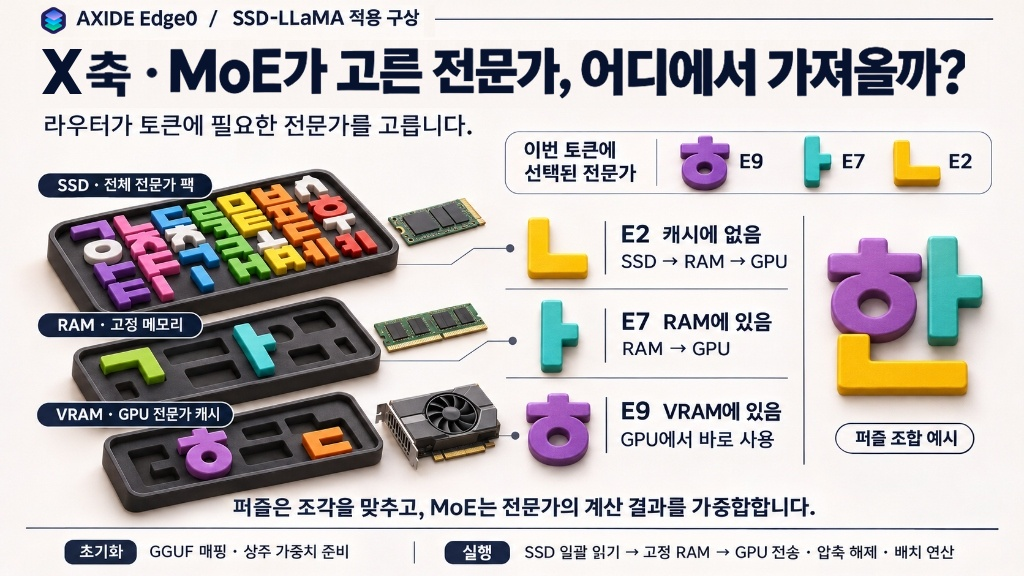
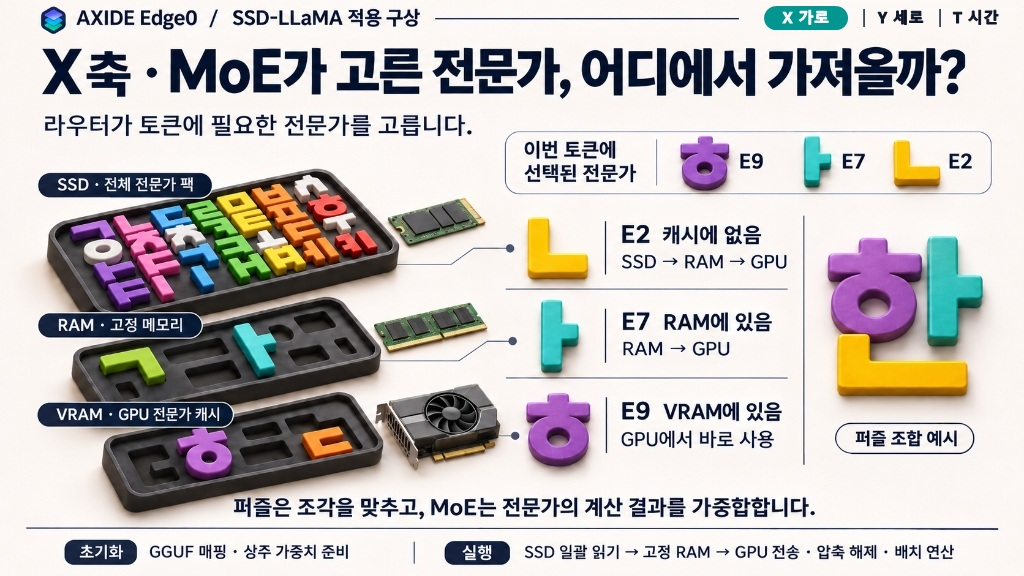
feat(story): unify X 가로 | Y 세로 | T 시간 headers, green X pill, and 5-step Hangul puzzle interlocking assembly

diff --git a/story.html b/story.html
@@ -311,18 +311,18 @@
                         </div>
                     </div>
                     <div class="mb-24">
-                        <div class="rounded-4 overflow-hidden" onclick="openStoryLightbox('assets/images/story/story-moe-ssd-llama-hangul-puzzle.jpg?v=20261105v106', 'X축 · MoE가 고른 전문가, 어디에서 가져올까? — AXIDE Edge0 / SSD-LLaMA 적용 구상 (SSD 전체 전문가 팩 · RAM 고정 메모리 · VRAM GPU 전문가 캐시)', false)" style="border: 1px solid rgba(16, 185, 129, 0.42); box-shadow: 0 20px 50px rgba(2, 6, 23, 0.55); background: #070b14; cursor: zoom-in;">
-                            <img src="assets/images/story/story-moe-ssd-llama-hangul-puzzle.jpg?v=20261105v106" alt="X축 · MoE가 고른 전문가, 어디에서 가져올까? — AXIDE Edge0 / SSD-LLaMA 적용 구상: 한글 자모 퍼즐 트레이(SSD 전체 전문가 팩 · RAM 고정 메모리 · VRAM GPU 전문가 캐시)에서 필요한 전문가 조각(ㅎ E9 + ㅏ E7 + ㄴ E2 = 한)을 조합하는 Cogni-OS 가로(x축) 탄생 원리" style="width: 100%; height: auto; display: block;" decoding="async" loading="lazy">
+                        <div class="rounded-4 overflow-hidden" onclick="openStoryLightbox('assets/images/story/story-moe-ssd-llama-hangul-puzzle.jpg?v=20261107v201', 'X축 · MoE가 고른 전문가, 어디에서 가져올까? — AXIDE Edge0 / SSD-LLaMA 적용 구상 (SSD 전체 전문가 팩 · RAM 고정 메모리 · VRAM GPU 전문가 캐시)', false)" style="border: 1px solid rgba(16, 185, 129, 0.42); box-shadow: 0 20px 50px rgba(2, 6, 23, 0.55); background: #070b14; cursor: zoom-in;">
+                            <img src="assets/images/story/story-moe-ssd-llama-hangul-puzzle.jpg?v=20261107v201" alt="X축 · MoE가 고른 전문가, 어디에서 가져올까? — AXIDE Edge0 / SSD-LLaMA 적용 구상: 한글 자모 퍼즐 트레이(SSD 전체 전문가 팩 · RAM 고정 메모리 · VRAM GPU 전문가 캐시)에서 필요한 전문가 조각(ㅎ E9 + ㅏ E7 + ㄴ E2 = 한)을 조합하는 Cogni-OS 가로(x축) 탄생 원리" style="width: 100%; height: auto; display: block;" decoding="async" loading="lazy">
                         </div>
                     </div>
                     <div class="mb-24">
-                        <div class="rounded-4 overflow-hidden" onclick="openStoryLightbox('assets/images/story/story-y-axis-cts-deq-hangul-assembly.jpg?v=20261105v105', 'Y축 · 어느 조립 방법을 더 살펴볼까? — AXIDE / Cogni-OS 연구 구상 (MCTS 후보 경로 탐색 · DEQ 후보 안 반복 · 외부 검증 CAD와 계측)', false)" style="border: 1px solid rgba(20, 184, 166, 0.45); box-shadow: 0 20px 50px rgba(2, 6, 23, 0.55); background: #070b14; cursor: zoom-in;">
-                            <img src="assets/images/story/story-y-axis-cts-deq-hangul-assembly.jpg?v=20261105v105" alt="Y축 · 어느 조립 방법을 더 살펴볼까? — AXIDE / Cogni-OS 연구 구상: X에서 고른 자모 블록으로 MCTS 후보 경로 탐색, DEQ 후보 안에서 반복 수렴, 외부 검증(CAD와 캘리퍼스 계측)까지 이어지는 CTS 연구 구조" style="width: 100%; height: auto; display: block;" decoding="async" loading="lazy">
+                        <div class="rounded-4 overflow-hidden" onclick="openStoryLightbox('assets/images/story/story-y-axis-cts-deq-hangul-assembly.jpg?v=20261107v201', 'Y축 · 어느 조립 방법을 더 살펴볼까? — AXIDE / Cogni-OS 연구 구상 (MCTS 후보 경로 탐색 · DEQ 후보 안 반복 · 외부 검증 CAD와 계측)', false)" style="border: 1px solid rgba(20, 184, 166, 0.45); box-shadow: 0 20px 50px rgba(2, 6, 23, 0.55); background: #070b14; cursor: zoom-in;">
+                            <img src="assets/images/story/story-y-axis-cts-deq-hangul-assembly.jpg?v=20261107v201" alt="Y축 · 어느 조립 방법을 더 살펴볼까? — AXIDE / Cogni-OS 연구 구상: 선택한 다섯 자모 블록(ㅅ·ㅁ·ㅊ·ㅗ·ㅜ, 조립 순서 ㅅ→ㅜ→ㅗ→ㅊ→ㅁ)으로 MCTS 후보 경로 탐색, DEQ 후보 안에서 반복 수렴, 외부 검증(CAD와 캘리퍼스 계측)까지 이어지는 CTS 연구 구조" style="width: 100%; height: auto; display: block;" decoding="async" loading="lazy">
                         </div>
                     </div>
                     <div class="mb-24">
-                        <div class="rounded-4 overflow-hidden" onclick="openStoryLightbox('assets/images/story/story-t-axis-memory-reuse-hangul-assembly.jpg?v=20261105v107', 'T축 · 어제 배운 조립법을 내일 어떻게 쓸까? — AXIDE / Cogni-OS 연구 구상 (어제 작업 기록 → 오늘 검증 후 보관 → 내일 기억 재사용)', false)" style="border: 1px solid rgba(168, 85, 247, 0.45); box-shadow: 0 20px 50px rgba(2, 6, 23, 0.55); background: #070b14; cursor: zoom-in;">
-                            <img src="assets/images/story/story-t-axis-memory-reuse-hangul-assembly.jpg?v=20261105v107" alt="T축 · 어제 배운 조립법을 내일 어떻게 쓸까? — AXIDE / Cogni-OS 연구 구상: 어제(작업 기록: 썼던 자모와 결합 조건) → 오늘(검증 후 보관: 도면과 맞는 조립법 v1 버전 저장) → 내일(기억 재사용: 이전 조립법을 꺼내 새 조건에서 적합성 확인)으로 이어지는 검증된 지식의 축적과 재사용" style="width: 100%; height: auto; display: block;" decoding="async" loading="lazy">
+                        <div class="rounded-4 overflow-hidden" onclick="openStoryLightbox('assets/images/story/story-t-axis-memory-reuse-hangul-assembly.jpg?v=20261107v201', 'T축 · 어제 배운 조립법을 내일 어떻게 쓸까? — AXIDE / Cogni-OS 연구 구상 (어제 작업 기록 → 오늘 검증 후 보관 → 내일 기억 재사용)', false)" style="border: 1px solid rgba(168, 85, 247, 0.45); box-shadow: 0 20px 50px rgba(2, 6, 23, 0.55); background: #070b14; cursor: zoom-in;">
+                            <img src="assets/images/story/story-t-axis-memory-reuse-hangul-assembly.jpg?v=20261107v201" alt="T축 · 어제 배운 조립법을 내일 어떻게 쓸까? — AXIDE / Cogni-OS 연구 구상: 어제(작업 기록: 쓴 자모와 결합 조건) → 오늘(검증 후 보관: 도면과 맞는 조립법 v1 버전 저장) → 내일(기억 재사용: 이전 조립법을 꺼내 새 조건에서 적합성 확인)으로 이어지는 검증된 지식의 축적과 재사용" style="width: 100%; height: auto; display: block;" decoding="async" loading="lazy">
                         </div>
                     </div>
                     <div class="mb-24">

diff --git a/service.html b/service.html
@@ -390,18 +390,18 @@
                             </div>
                         </div>
                         <div class="col-lg-6">
-                            <div class="rounded-4 overflow-hidden h-100" onclick="openStoryLightbox('assets/images/story/story-moe-ssd-llama-hangul-puzzle.jpg?v=20261105v106', 'X축 · MoE가 고른 전문가, 어디에서 가져올까? — AXIDE Edge0 / SSD-LLaMA 적용 구상 (SSD 전체 전문가 팩 · RAM 고정 메모리 · VRAM GPU 전문가 캐시)', false)" style="border: 1px solid rgba(16, 185, 129, 0.42); box-shadow: 0 20px 50px rgba(2, 6, 23, 0.55); background: #070b14; cursor: zoom-in;">
-                                <img src="assets/images/story/story-moe-ssd-llama-hangul-puzzle.jpg?v=20261105v106" alt="X축 · MoE가 고른 전문가, 어디에서 가져올까? — AXIDE Edge0 / SSD-LLaMA 적용 구상: 한글 자모 퍼즐 트레이(SSD 전체 전문가 팩 · RAM 고정 메모리 · VRAM GPU 전문가 캐시)에서 필요한 전문가 조각(ㅎ E9 + ㅏ E7 + ㄴ E2 = 한)을 조합하는 Cogni-OS 가로(x축) 탄생 원리" style="width: 100%; height: auto; display: block;" decoding="async" loading="lazy">
+                            <div class="rounded-4 overflow-hidden h-100" onclick="openStoryLightbox('assets/images/story/story-moe-ssd-llama-hangul-puzzle.jpg?v=20261107v201', 'X축 · MoE가 고른 전문가, 어디에서 가져올까? — AXIDE Edge0 / SSD-LLaMA 적용 구상 (SSD 전체 전문가 팩 · RAM 고정 메모리 · VRAM GPU 전문가 캐시)', false)" style="border: 1px solid rgba(16, 185, 129, 0.42); box-shadow: 0 20px 50px rgba(2, 6, 23, 0.55); background: #070b14; cursor: zoom-in;">
+                                <img src="assets/images/story/story-moe-ssd-llama-hangul-puzzle.jpg?v=20261107v201" alt="X축 · MoE가 고른 전문가, 어디에서 가져올까? — AXIDE Edge0 / SSD-LLaMA 적용 구상: 한글 자모 퍼즐 트레이(SSD 전체 전문가 팩 · RAM 고정 메모리 · VRAM GPU 전문가 캐시)에서 필요한 전문가 조각(ㅎ E9 + ㅏ E7 + ㄴ E2 = 한)을 조합하는 Cogni-OS 가로(x축) 탄생 원리" style="width: 100%; height: auto; display: block;" decoding="async" loading="lazy">
                             </div>
                         </div>
                         <div class="col-lg-6">
-                            <div class="rounded-4 overflow-hidden h-100" onclick="openStoryLightbox('assets/images/story/story-y-axis-cts-deq-hangul-assembly.jpg?v=20261105v105', 'Y축 · 어느 조립 방법을 더 살펴볼까? — AXIDE / Cogni-OS 연구 구상 (MCTS 후보 경로 탐색 · DEQ 후보 안 반복 · 외부 검증 CAD와 계측)', false)" style="border: 1px solid rgba(20, 184, 166, 0.45); box-shadow: 0 20px 50px rgba(2, 6, 23, 0.55); background: #070b14; cursor: zoom-in;">
-                                <img src="assets/images/story/story-y-axis-cts-deq-hangul-assembly.jpg?v=20261105v105" alt="Y축 · 어느 조립 방법을 더 살펴볼까? — AXIDE / Cogni-OS 연구 구상: X에서 고른 자모 블록으로 MCTS 후보 경로 탐색, DEQ 후보 안에서 반복 수렴, 외부 검증(CAD와 계측)까지 이어지는 CTS 연구 구조" style="width: 100%; height: auto; display: block;" decoding="async" loading="lazy">
+                            <div class="rounded-4 overflow-hidden h-100" onclick="openStoryLightbox('assets/images/story/story-y-axis-cts-deq-hangul-assembly.jpg?v=20261107v201', 'Y축 · 어느 조립 방법을 더 살펴볼까? — AXIDE / Cogni-OS 연구 구상 (MCTS 후보 경로 탐색 · DEQ 후보 안 반복 · 외부 검증 CAD와 계측)', false)" style="border: 1px solid rgba(20, 184, 166, 0.45); box-shadow: 0 20px 50px rgba(2, 6, 23, 0.55); background: #070b14; cursor: zoom-in;">
+                                <img src="assets/images/story/story-y-axis-cts-deq-hangul-assembly.jpg?v=20261107v201" alt="Y축 · 어느 조립 방법을 더 살펴볼까? — AXIDE / Cogni-OS 연구 구상: X에서 고른 자모 블록으로 MCTS 후보 경로 탐색, DEQ 후보 안에서 반복 수렴, 외부 검증(CAD와 계측)까지 이어지는 CTS 연구 구조" style="width: 100%; height: auto; display: block;" decoding="async" loading="lazy">
                             </div>
                         </div>
                         <div class="col-lg-6">
-                            <div class="rounded-4 overflow-hidden h-100" onclick="openStoryLightbox('assets/images/story/story-t-axis-memory-reuse-hangul-assembly.jpg?v=20261105v107', 'T축 · 어제 배운 조립법을 내일 어떻게 쓸까? — AXIDE / Cogni-OS 연구 구상 (어제 작업 기록 → 오늘 검증 후 보관 → 내일 기억 재사용)', false)" style="border: 1px solid rgba(168, 85, 247, 0.45); box-shadow: 0 20px 50px rgba(2, 6, 23, 0.55); background: #070b14; cursor: zoom-in;">
-                                <img src="assets/images/story/story-t-axis-memory-reuse-hangul-assembly.jpg?v=20261105v107" alt="T축 · 어제 배운 조립법을 내일 어떻게 쓸까? — AXIDE / Cogni-OS 연구 구상: 어제(작업 기록) → 오늘(검증 후 조립법 v1 버전 보관) → 내일(기억 재사용 및 적합성 확인)으로 이어지는 검증된 지식의 축적과 재사용" style="width: 100%; height: auto; display: block;" decoding="async" loading="lazy">
+                            <div class="rounded-4 overflow-hidden h-100" onclick="openStoryLightbox('assets/images/story/story-t-axis-memory-reuse-hangul-assembly.jpg?v=20261107v201', 'T축 · 어제 배운 조립법을 내일 어떻게 쓸까? — AXIDE / Cogni-OS 연구 구상 (어제 작업 기록 → 오늘 검증 후 보관 → 내일 기억 재사용)', false)" style="border: 1px solid rgba(168, 85, 247, 0.45); box-shadow: 0 20px 50px rgba(2, 6, 23, 0.55); background: #070b14; cursor: zoom-in;">
+                                <img src="assets/images/story/story-t-axis-memory-reuse-hangul-assembly.jpg?v=20261107v201" alt="T축 · 어제 배운 조립법을 내일 어떻게 쓸까? — AXIDE / Cogni-OS 연구 구상: 어제(작업 기록) → 오늘(검증 후 조립법 v1 버전 보관) → 내일(기억 재사용 및 적합성 확인)으로 이어지는 검증된 지식의 축적과 재사용" style="width: 100%; height: auto; display: block;" decoding="async" loading="lazy">
                             </div>
                         </div>
                         <div class="col-12">
